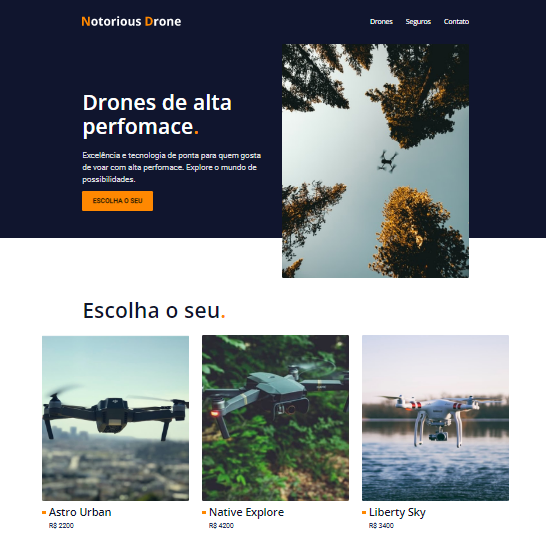
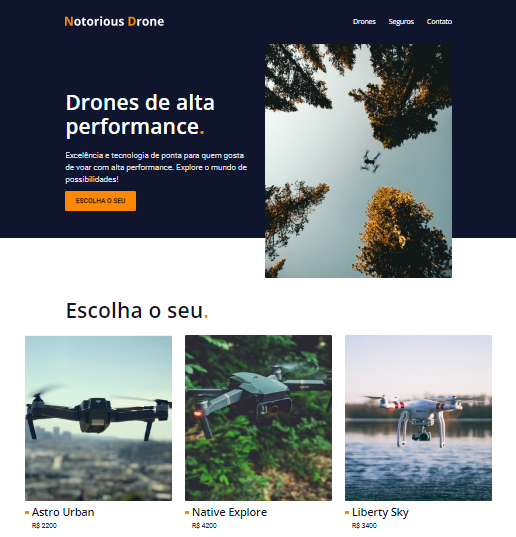
new add

diff --git a/index.html b/index.html
@@ -36,8 +36,8 @@
     <main class="introducao-bg ">
         <div class="introducao container">
             <div class="introducao-conteudo">
-            <h1 class="font-1-xxl cor-0">Drones de alta perfomace<span class="cor-p1">.</span></h1>
-            <p class="font-2-l-b cor-cinza-padrao">Excelência e tecnologia de ponta para quem gosta de voar com alta perfomace. Explore o mundo de possibilidades.</p>
+            <h1 class="font-1-xxl cor-0">Drones de alta performance<span class="cor-p1">.</span></h1>
+            <p class="font-2-l-b cor-cinza-padrao">Excelência e tecnologia de ponta para quem gosta de voar com alta performance. Explore o mundo de possibilidades!</p>
             <a class="botao" href="./drones.html">Escolha o seu</a>
         </div>
         <picture>
@@ -79,7 +79,7 @@
             <div class="tecnologia-conteudo">
                 <span class="font-2-l cor-p2"> Excelência e Tecnologia Avançada</span>
                 <h2 class="font-1-xxl cor-0">Escolha a tecnologia que melhor satisfaça sua necessidade<span class="cor-p1">.</span></h2>
-                <p class="font-2-l-b cor-cinza-padrao">A Notorious Drone é sininônimo de Excelência e Tecnologia. Nossos modelos são desenhados para você que ama voar em alta performace. Garantimos o melhor desempenho e sofisticação do mercado.</p>
+                <p class="font-2-l-b cor-cinza-padrao">A Notorious Drone é sininônimo de Excelência e Tecnologia. Nossos modelos são desenhados para você que ama voar em alta performance. Garantimos o melhor desempenho e sofisticação do mercado.</p>
                 <a class="link" href="./drones.html"> Escolha seu modelo</a>
                     <div class="tecnologia-vantagens">
                     <div>
